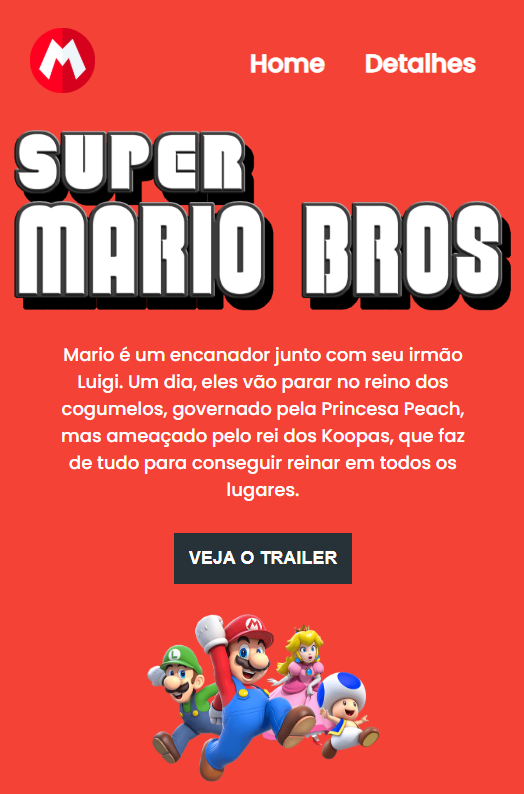
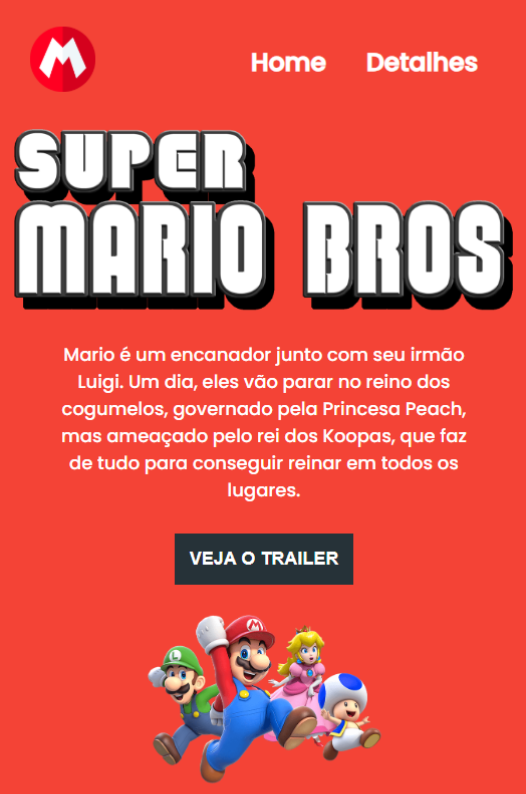
arrumei o tamanho da imagem do projeto MARIO e adicionei outros três projetos a ala de projetos

diff --git a/src/App.tsx b/src/App.tsx
@@ -526,7 +526,7 @@ export function App() {
           >
             <h2 className="text-xl lg:text-2xl font-bold">PROJETOS</h2>
             <ul className="flex flex-wrap items-center justify-center gap-4 sm:gap-x-6 xl:gap-x-9">
-              <li className="w-[80%] max-w-96 sm:w-[48%] min-w-60 sm:max-w-md h-[80%]  shadow-projects cursor-pointer opacity-60 hover:opacity-100 hover:scale-105 transition ease-in-out active:scale-105 active:opacity-100">
+              <li className="w-[80%] max-w-96 sm:w-[48%] min-w-60 sm:max-w-md shadow-projects cursor-pointer opacity-60 hover:opacity-100 hover:scale-105 transition ease-in-out active:scale-105 active:opacity-100">
                 <button
                   className="rounded-2xl overflow-hidden"
                   type="button"
@@ -672,6 +672,40 @@ export function App() {
                   type="button"
                   onClick={() =>
                     modalProjectsOpen({
+                      title: 'Como surgiu o mascote do Android?',
+                      icons: [
+                        {
+                          src: './icons/html-icon.svg',
+                          description: 'icon de html',
+                        },
+                        {
+                          src: './icons/css-icon.svg',
+                          description: 'icon de css',
+                        },
+                      ],
+                      imageUrl:
+                        './images/projectsImages/project-6-projeto-android-open.png',
+                      descriptionImage: 'imagem do projeto Android',
+                      siteUrl:
+                        'https://binhozero11.github.io/projeto-android/',
+                      repoUrl:
+                        'https://github.com/Binhozero11/projeto-android',
+                    })
+                  }
+                >
+                  <img
+                    src="./images/projectsImages/project-6-projeto-android.png"
+                    alt="imagem do projeto Android"
+                    className=""
+                  />
+                </button>
+              </li>
+              <li className="w-[80%] max-w-96 sm:w-[48%] min-w-60 sm:max-w-md  shadow-projects cursor-pointer opacity-60 hover:opacity-100 hover:scale-105 transition ease-in-out active:scale-105 active:opacity-100">
+              <button
+                  className="rounded-2xl overflow-hidden"
+                  type="button"
+                  onClick={() =>
+                    modalProjectsOpen({
                       title: 'Projeto X-Men - Semana do Zero Ao Programador Contratado',
                       icons: [
                         {
@@ -682,24 +716,122 @@ export function App() {
                           src: './icons/css-icon.svg',
                           description: 'icon de css',
                         },
-                        {
-                          src: './icons/js-icon.svg',
-                          description: 'icon de js',
-                        },
                       ],
                       imageUrl:
-                        './images/projectsImages/project-5-x-men-open.png',
+                        './images/projectsImages/project-7-projeto-cordel-open.png',
                       descriptionImage: 'imagem do projeto X-men',
                       siteUrl:
-                        'https://binhozero11.github.io/projeto-x-men/',
+                        'https://binhozero11.github.io/projeto-cordel/',
                       repoUrl:
-                        'https://github.com/Binhozero11/projeto-x-men',
+                        'https://github.com/Binhozero11/projeto-cordel',
                     })
                   }
                 >
                   <img
-                    src="./images/projectsImages/project-5-x-men.png"
+                    src="./images/projectsImages/project-7-projeto-cordel.png"
                     alt="imagem do projeto X-men"
+                    className=""
+                  />
+                </button>
+              </li>
+              <li className="w-[80%] max-w-96 sm:w-[48%] min-w-60 sm:max-w-md  shadow-projects cursor-pointer opacity-60 hover:opacity-100 hover:scale-105 transition ease-in-out active:scale-105 active:opacity-100">
+              <button
+                  className="rounded-2xl overflow-hidden"
+                  type="button"
+                  onClick={() =>
+                    modalProjectsOpen({
+                      title: 'Projeto Login',
+                      icons: [
+                        {
+                          src: './icons/html-icon.svg',
+                          description: 'icon de html',
+                        },
+                        {
+                          src: './icons/css-icon.svg',
+                          description: 'icon de css',
+                        },
+                      ],
+                      imageUrl:
+                        './images/projectsImages/project-8-projeto-login-open.png',
+                      descriptionImage: 'imagem do projeto Super Mario Bros',
+                      siteUrl:
+                        'https://binhozero11.github.io/projeto-login/',
+                      repoUrl:
+                        'https://github.com/Binhozero11/projeto-login',
+                    })
+                  }
+                >
+                  <img
+                    src="./images/projectsImages/project-8-projeto-login.png"
+                    alt="imagem do projeto de login"
+                    className=""
+                  />
+                </button>
+              </li>
+              <li className="w-[80%] max-w-96 sm:w-[48%] min-w-60 sm:max-w-md  shadow-projects cursor-pointer opacity-60 hover:opacity-100 hover:scale-105 transition ease-in-out active:scale-105 active:opacity-100">
+              <button
+                  className="rounded-2xl overflow-hidden"
+                  type="button"
+                  onClick={() =>
+                    modalProjectsOpen({
+                      title: 'Projeto media query',
+                      icons: [
+                        {
+                          src: './icons/html-icon.svg',
+                          description: 'icon de html',
+                        },
+                        {
+                          src: './icons/css-icon.svg',
+                          description: 'icon de css',
+                        },
+                      ],
+                      imageUrl:
+                        './images/projectsImages/project-9-media-query-open.png',
+                      descriptionImage: 'imagem do projeto X-men',
+                      siteUrl:
+                        'https://binhozero11.github.io/media-queries/',
+                      repoUrl:
+                        'https://github.com/Binhozero11/media-queries',
+                    })
+                  }
+                >
+                  <img
+                    src="./images/projectsImages/project-9-media-query.png"
+                    alt="imagem do projeto de media query"
+                    className=""
+                  />
+                </button>
+              </li>
+              <li className="w-[80%] max-w-96 sm:w-[48%] min-w-60 sm:max-w-md  shadow-projects cursor-pointer opacity-60 hover:opacity-100 hover:scale-105 transition ease-in-out active:scale-105 active:opacity-100">
+              <button
+                  className="rounded-2xl overflow-hidden"
+                  type="button"
+                  onClick={() =>
+                    modalProjectsOpen({
+                      title: 'Projeto social',
+                      icons: [
+                        {
+                          src: './icons/html-icon.svg',
+                          description: 'icon de html',
+                        },
+                        {
+                          src: './icons/css-icon.svg',
+                          description: 'icon de css',
+                        },
+                      ],
+                      imageUrl:
+                        './images/projectsImages/project-10-projeto social-open.png',
+                      descriptionImage: 'imagem do projeto social',
+                      siteUrl:
+                        'https://binhozero11.github.io/projeto-social/',
+                      repoUrl:
+                        'https://github.com/Binhozero11/projeto-social',
+                    })
+                  }
+                >
+                  <img
+                    src="./images/projectsImages/project-10-projeto social.png"
+                    alt="imagem do projeto social"
                     className=""
                   />
                 </button>
